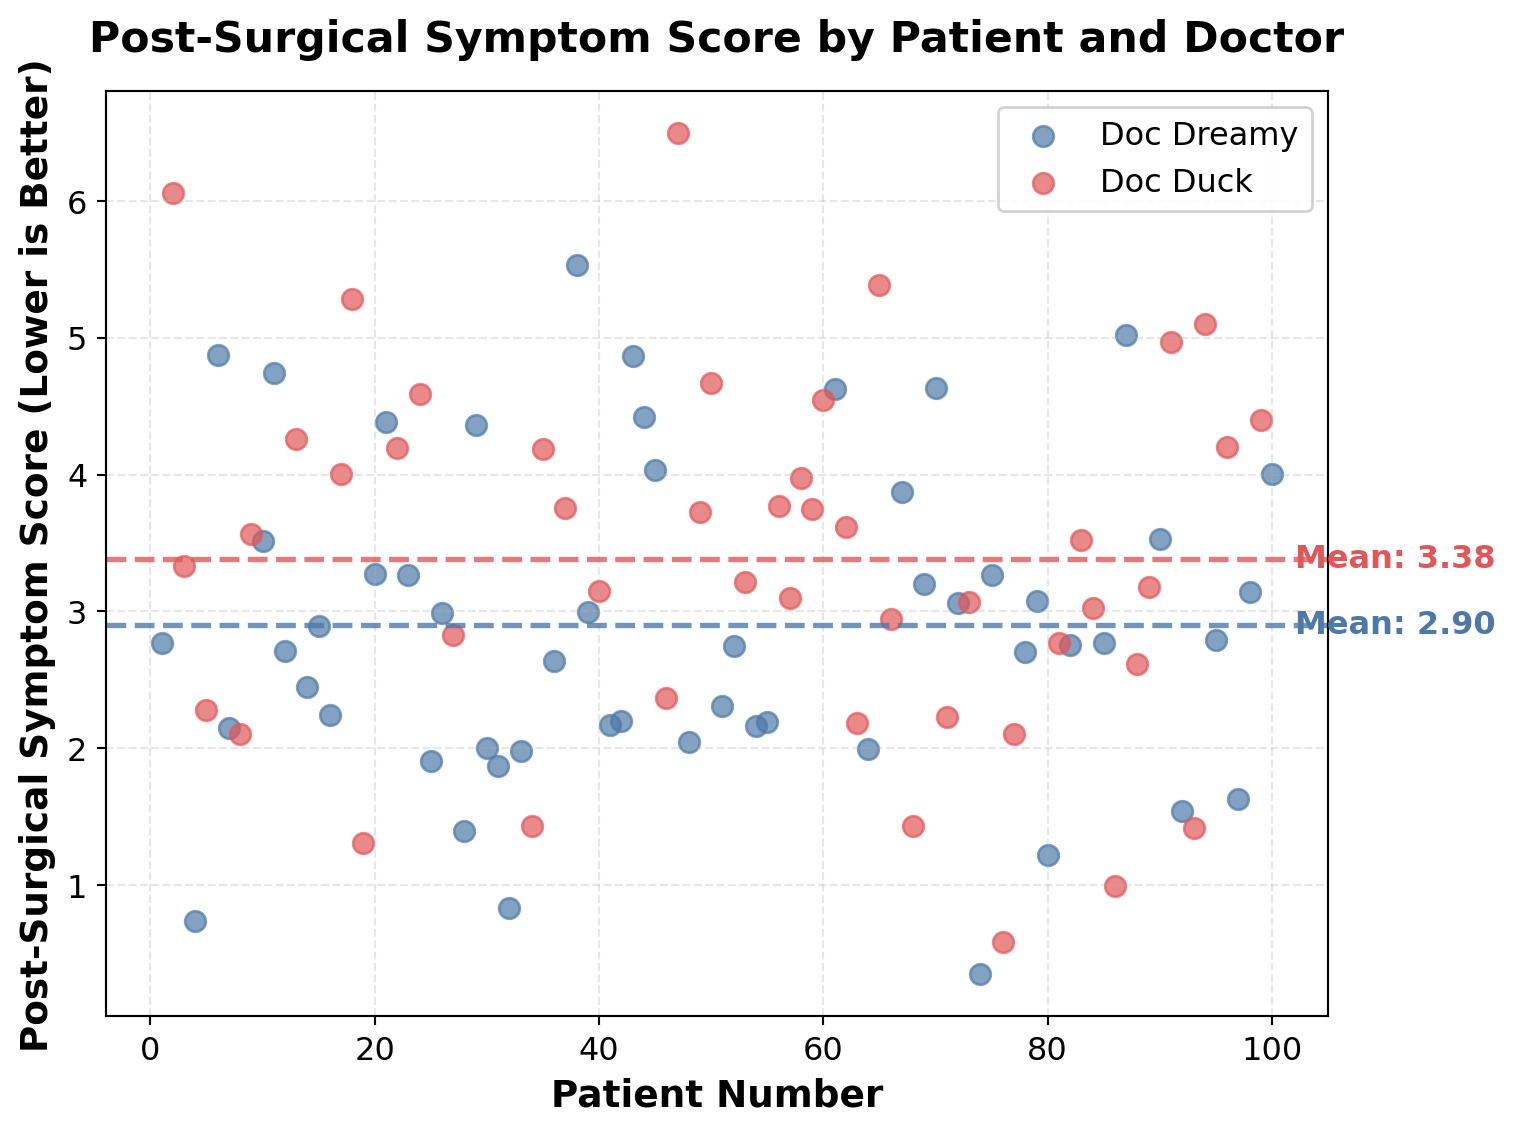
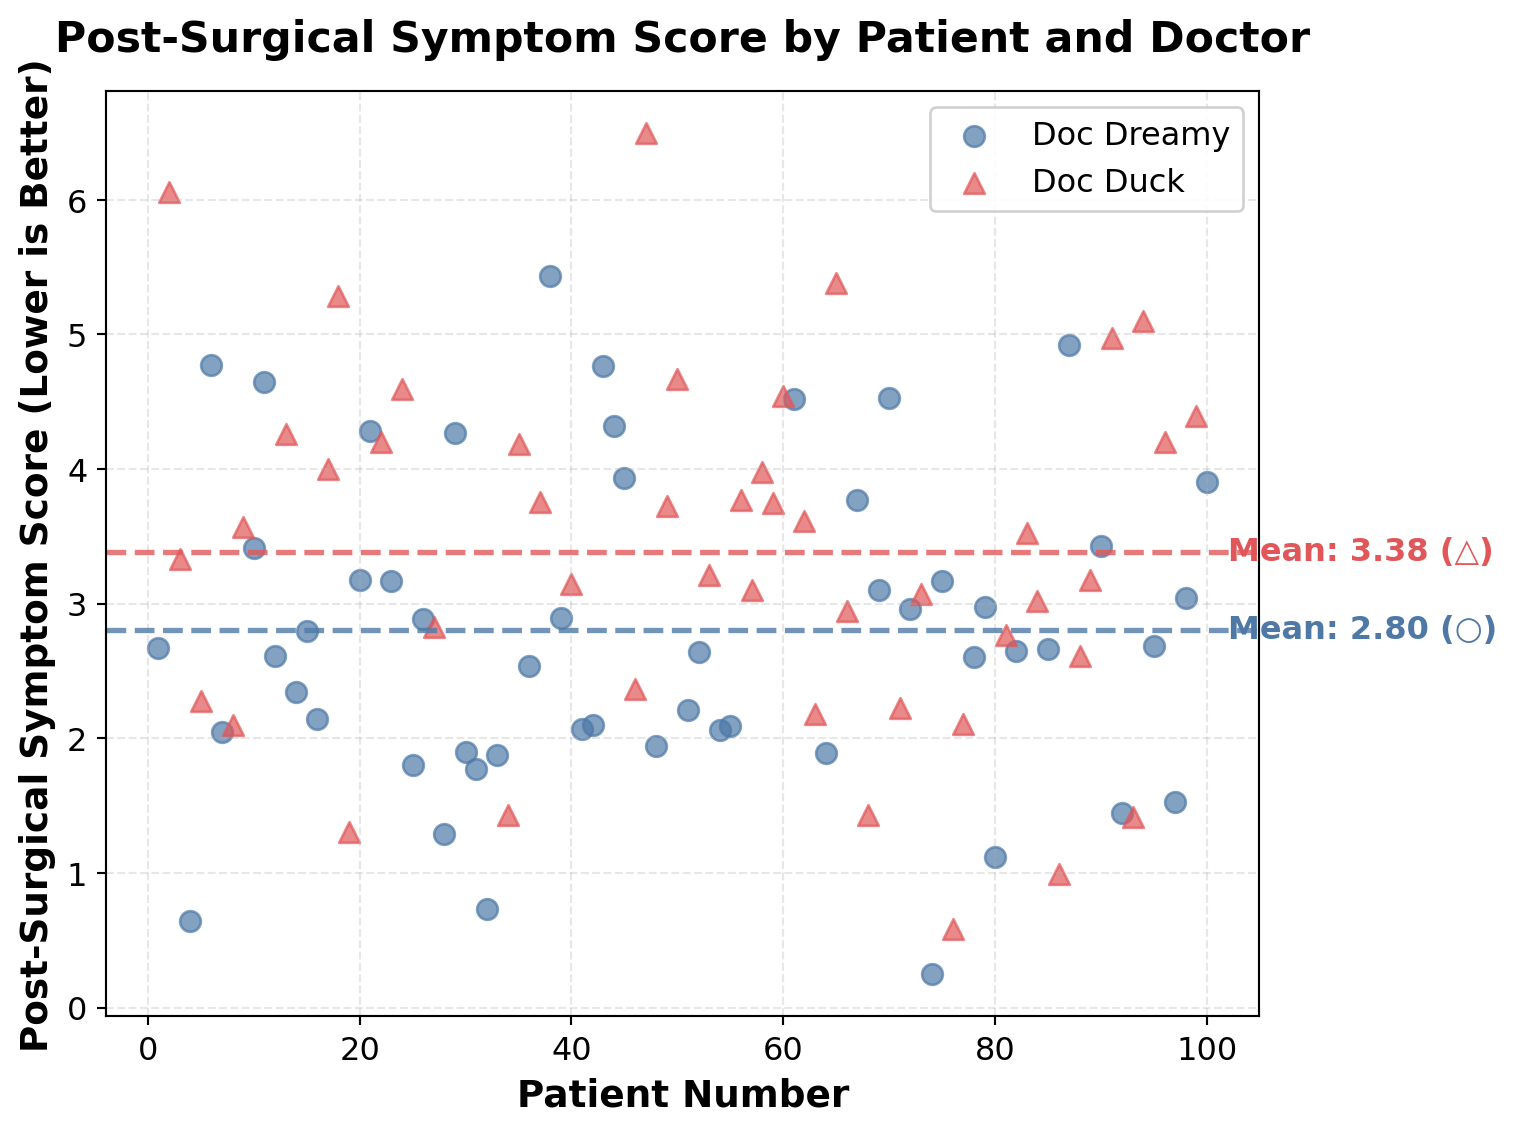
have a great statistically significant sample

diff --git a/topics/DAGsAndConfounders/sampleReport.html b/topics/DAGsAndConfounders/sampleReport.html
@@ -109,13 +109,13 @@ A Tale of Two Surgeons
 </section>
 <section id="data-on-two-surgeons" class="level2">
 <h2 class="anchored" data-anchor-id="data-on-two-surgeons">Data on Two Surgeons</h2>
-<p><a href="#fig-plot-outcomes" class="quarto-xref">Figure&nbsp;1</a> shows the post-surgical symptom score for 100 patients. Doc Duck’s average post-surgical symptom score is 3.38 while Doc Dreamy’s average is 2.9. Doc Dreamy performs better since lower scores indicate better outcomes.</p>
-<div id="cell-fig-plot-outcomes" class="cell" data-fig-height="6" data-fig-width="8" data-message="false" data-execution_count="3">
+<p><a href="#fig-plot-outcomes" class="quarto-xref">Figure&nbsp;1</a> shows the post-surgical symptom score for 100 patients. Doc Duck’s average post-surgical symptom score is 3.38 while Doc Dreamy’s average is 2.8. Doc Dreamy performs better since lower scores indicate better outcomes. One might ask if the difference in average post-surgical symptom score is statistically significant. A two-sample t-test reveals a statistically significant difference (t = -2.317, p = 0.023).</p>
+<div id="cell-fig-plot-outcomes" class="cell" data-fig-height="6" data-fig-width="8" data-message="false" data-execution_count="4">
 <div class="cell-output cell-output-display">
 <div id="fig-plot-outcomes" class="quarto-float quarto-figure quarto-figure-center anchored">
 <figure class="quarto-float quarto-float-fig figure">
 <div aria-describedby="fig-plot-outcomes-caption-0ceaefa1-69ba-4598-a22c-09a6ac19f8ca">
-<img src="sampleReport_files/figure-html/fig-plot-outcomes-output-1.png" width="757" height="567" class="figure-img">
+<img src="sampleReport_files/figure-html/fig-plot-outcomes-output-1.png" width="758" height="567" class="figure-img">
 </div>
 <figcaption class="quarto-float-caption-bottom quarto-float-caption quarto-float-fig" id="fig-plot-outcomes-caption-0ceaefa1-69ba-4598-a22c-09a6ac19f8ca">
 Figure&nbsp;1: Post-Surgical Symptom Score (lower is better)by Patient and Doctor
